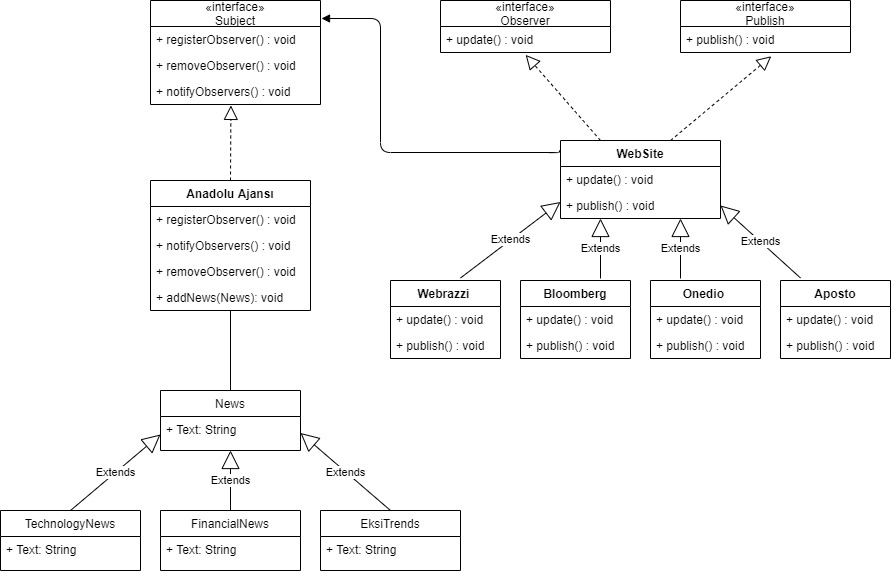
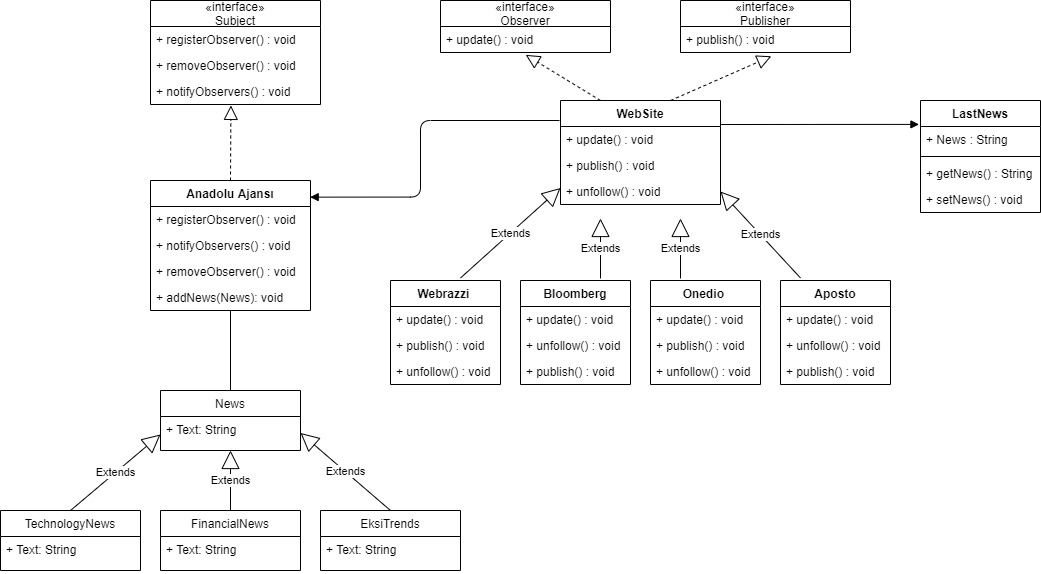
observer pattern tests added

diff --git a/observer-pattern/src/main/java/observer/pattern/config/SwaggerConfig.java b/observer-pattern/src/main/java/observer/pattern/config/SwaggerConfig.java
@@ -1,0 +1,37 @@
+package observer.pattern.config;
+
+import io.swagger.v3.oas.models.Components;
+import io.swagger.v3.oas.models.OpenAPI;
+import io.swagger.v3.oas.models.info.Info;
+import io.swagger.v3.oas.models.security.OAuthFlow;
+import io.swagger.v3.oas.models.security.OAuthFlows;
+import io.swagger.v3.oas.models.security.SecurityRequirement;
+import io.swagger.v3.oas.models.security.SecurityScheme;
+import io.swagger.v3.oas.models.servers.Server;
+import org.springframework.context.annotation.Bean;
+import org.springframework.context.annotation.Configuration;
+
+import java.util.Collections;
+
+@Configuration
+public class SwaggerConfig {
+
+    @Bean
+    public OpenAPI customOpenAPI() {
+        return new OpenAPI().addServersItem(new Server().url("http://localhost:8080"))
+                .components(new Components()
+                        .addSecuritySchemes("Authorization", new SecurityScheme()
+                                .type(SecurityScheme.Type.OAUTH2)
+                                .description("")
+                                .flows(new OAuthFlows()
+                                        .password(new OAuthFlow()
+                                                .tokenUrl("/oauth/token")
+                                        )
+                                )
+                                .in(SecurityScheme.In.HEADER).name("Authorization")
+                        ))
+                .info(new Info().title("Observer Pattern Service")
+                        .description("Observer Pattern Service Restfull Api").version("v0.0.1"))
+                .addSecurityItem(new SecurityRequirement().addList("Authorization", Collections.singletonList("all")));
+    }
+}

diff --git a/observer-pattern/src/test/java/observer/pattern/domain/WebSiteTest.java b/observer-pattern/src/test/java/observer/pattern/domain/WebSiteTest.java
@@ -1,0 +1,43 @@
+package observer.pattern.domain;
+
+import org.junit.jupiter.api.Order;
+import org.junit.jupiter.api.Test;
+import org.springframework.boot.test.context.SpringBootTest;
+
+import static org.junit.jupiter.api.Assertions.assertEquals;
+
+@SpringBootTest
+public class WebSiteTest {
+    @Test
+    @Order(1)
+    public void isTheMessagePublished() {
+        //Given
+        AnadoluAgency anadoluAgency = new AnadoluAgency();
+        LastNews lastNews = new LastNews();
+        WebSite aposto = WebSiteFactory.createAposto(anadoluAgency, lastNews);
+        News news = NewsFactory.CreateNews("test");
+
+        //When
+        anadoluAgency.addNews(news);
+
+        //Then
+        assertEquals(lastNews.getNews, "test");
+    }
+
+    @Test
+    @Order(1)
+    public void isTheMessagePublishedWhenUnfollow() {
+        //Given
+        AnadoluAgency anadoluAgency = new AnadoluAgency();
+        LastNews lastNews = new LastNews();
+        WebSite aposto = WebSiteFactory.createAposto(anadoluAgency, lastNews);
+        News news = NewsFactory.CreateNews("test");
+
+        //When
+        aposto.unfollow();
+        anadoluAgency.addNews(news);
+
+        //Then
+        assertEquals(lastNews.getNews, "");
+    }
+}

diff --git a/observer-pattern/src/main/java/observer/pattern/controller/NewsController.java b/observer-pattern/src/main/java/observer/pattern/controller/NewsController.java
@@ -1,0 +1,17 @@
+package observer.pattern.controller;
+
+import observer.pattern.models.NewsRequestObject;
+import org.springframework.http.HttpStatus;
+import org.springframework.http.ResponseEntity;
+import org.springframework.web.bind.annotation.PostMapping;
+import org.springframework.web.bind.annotation.RequestBody;
+
+public class NewsController {
+    @PostMapping(path = "/add-news")
+    public ResponseEntity<String> addProductToBasket(@RequestBody NewsRequestObject newsRequestObject) {
+
+
+
+        return new ResponseEntity<String>("News is added", HttpStatus.OK);
+    }
+}

diff --git a/observer-pattern/src/main/java/observer/pattern/models/NewsRequestObject.java b/observer-pattern/src/main/java/observer/pattern/models/NewsRequestObject.java
@@ -1,0 +1,27 @@
+package observer.pattern.models;
+
+public class NewsRequestObject {
+    String type;
+    String text;
+
+    public NewsRequestObject() {
+    }
+
+    public String getType() {
+        return type;
+    }
+
+    public void setType(String type) {
+        this.type = type;
+    }
+
+    public String getText() {
+        return text;
+    }
+
+    public void setText(String text) {
+        this.text = text;
+    }
+}
+
+

diff --git a/observer-pattern/src/test/java/observer/pattern/ObserverPatternApplicationTest.java b/observer-pattern/src/test/java/observer/pattern/ObserverPatternApplicationTest.java
@@ -1,0 +1,11 @@
+package observer.pattern;
+
+import org.junit.jupiter.api.Test;
+import org.springframework.boot.test.context.SpringBootTest;
+
+@SpringBootTest
+public class ObserverPatternApplicationTest {
+    @Test
+    void contextLoads() {
+    }
+}

diff --git a/observer-pattern/src/main/java/observer/pattern/domain/Subject.java b/observer-pattern/src/main/java/observer/pattern/domain/Subject.java
@@ -1,0 +1,7 @@
+package observer.pattern.domain;
+
+public interface Subject {
+    void registerObserver();
+    void removeObserver();
+    void notifyObservers();
+}

diff --git a/observer-pattern/src/main/java/observer/pattern/domain/Publisher.java b/observer-pattern/src/main/java/observer/pattern/domain/Publisher.java
@@ -1,0 +1,5 @@
+package observer.pattern.domain;
+
+public interface Publisher {
+    void publish();
+}

diff --git a/observer-pattern/src/main/java/observer/pattern/domain/Observer.java b/observer-pattern/src/main/java/observer/pattern/domain/Observer.java
@@ -1,0 +1,5 @@
+package observer.pattern.domain;
+
+public interface Observer {
+    void update();
+}
